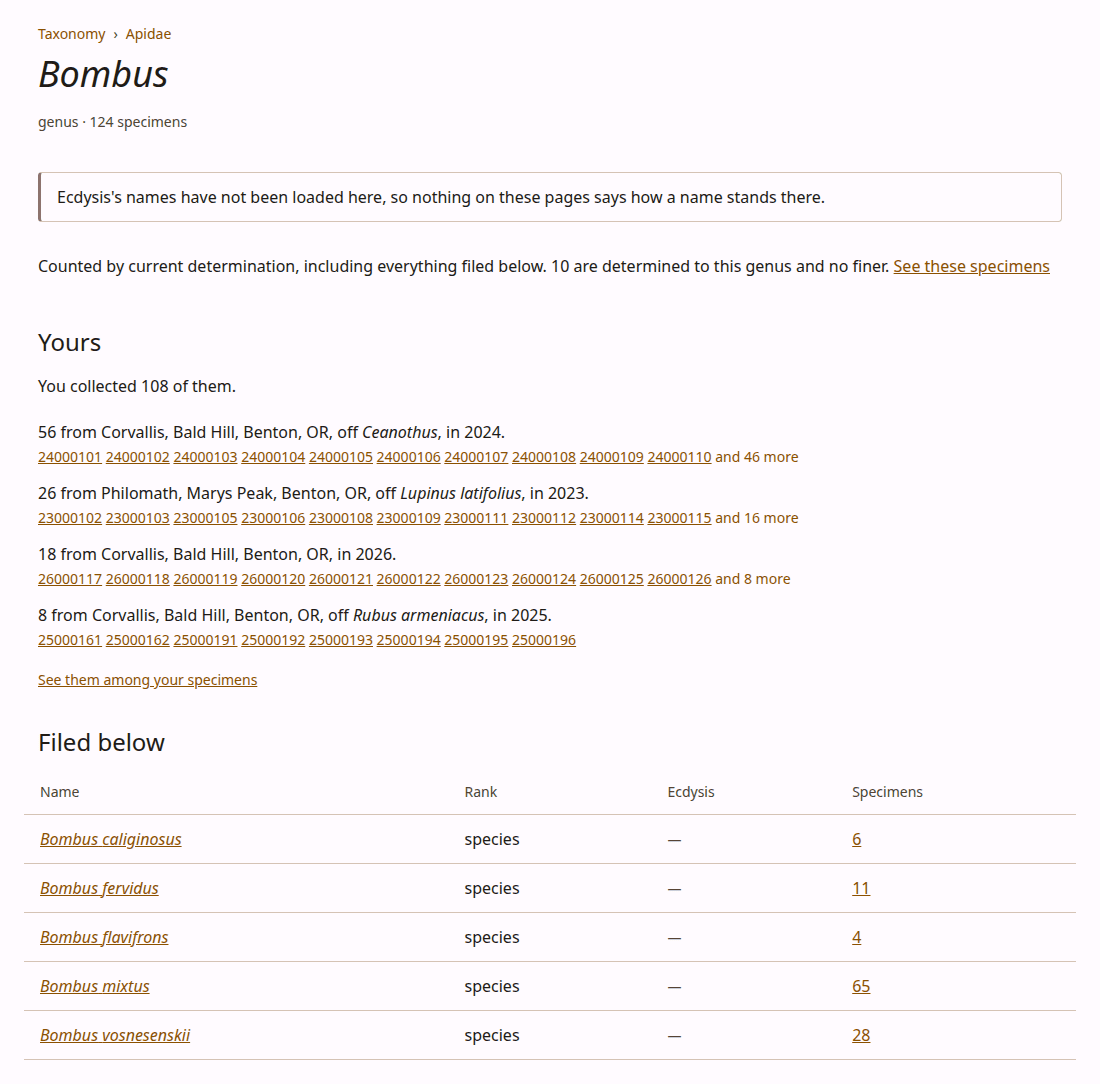
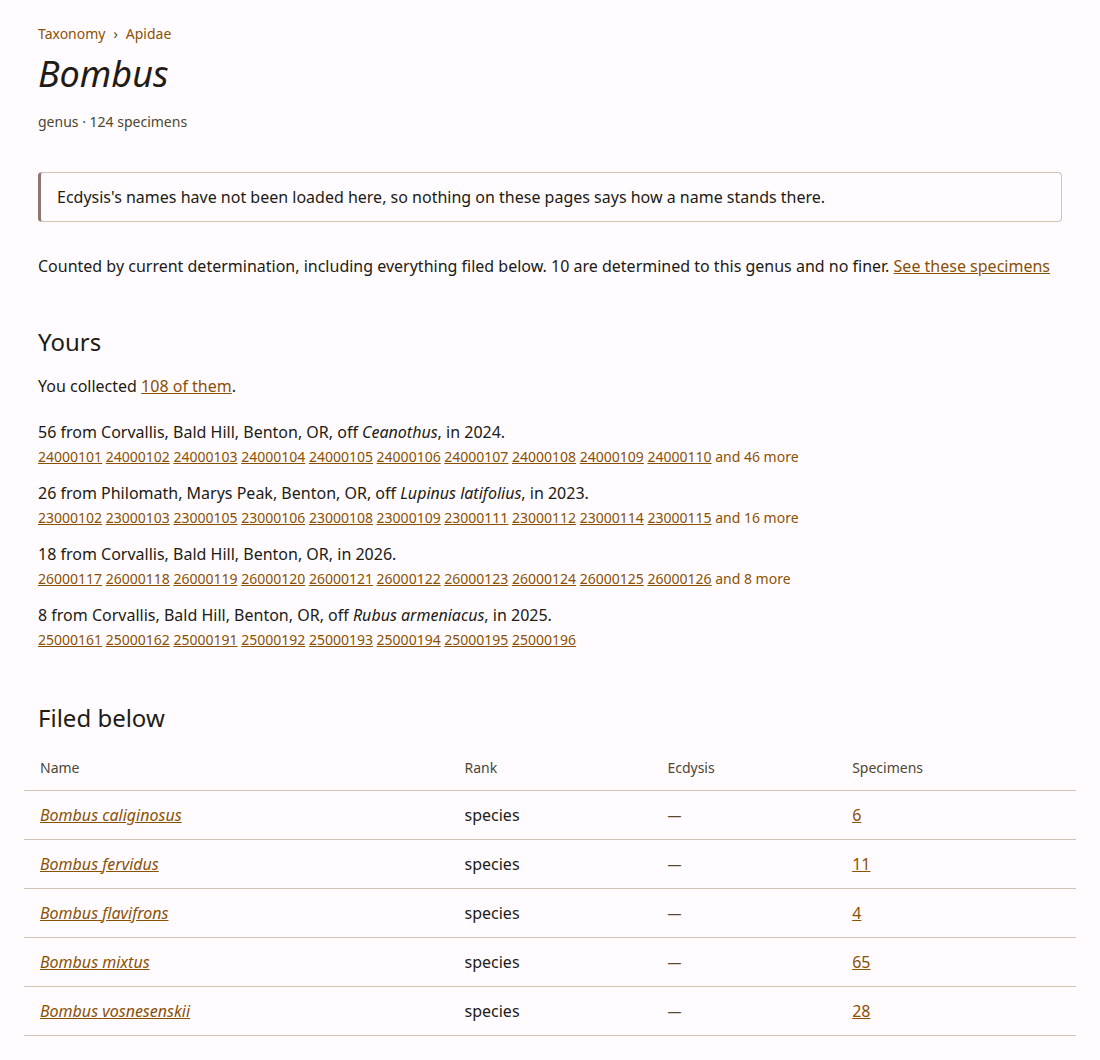
Link the count of the reader's specimens instead of a separate link
"See them among your specimens" named no page. "You collected 108 of
them" now links to the specimen listing at My records itself.

diff --git a/test/taxonomy.test.ts b/test/taxonomy.test.ts
@@ -469,7 +469,7 @@ describe("the reader's own specimens on a name's page (beeline-nstp)", () => {
     const body = await page(app, taxonHref({ rank: "genus", scientific_name: "Lasioglossum" }));
     const yours = between(body, `<h2 id="yours">`, "</section>");
     const t = en.taxonomy.yours;
-    expect(yours).toContain(t.summary(3));
+    expect(yours).toContain(`${t.collected} <a href="${html("/specimens?scope=mine&taxon=Lasioglossum")}">${t.ofThem(3)}</a>.`);
     // The most specimens first: Ada's own two at Corvallis, then the tenax off Rubus.
     const corvallis = yours.indexOf(t.from(2, "Corvallis, BentonCo, OR"));
     const baldHill = yours.indexOf(t.from(1, "Bald Hill, BentonCo, OR"));
@@ -483,7 +483,6 @@ describe("the reader's own specimens on a name's page (beeline-nstp)", () => {
     expect(yours).toContain(en.yourBees.batches.specimen("1", 2));
     expect(yours).not.toContain("Philomath");
     expect(yours).not.toContain("26000301");
-    expect(yours).toContain(`href="${html("/specimens?scope=mine&taxon=Lasioglossum")}"`);
     // The listing it links to agrees about which are Ada's.
     const listing = await page(app, "/specimens?scope=mine&taxon=Lasioglossum");
     expect(listing).toContain("26000201");
@@ -494,7 +493,7 @@ describe("the reader's own specimens on a name's page (beeline-nstp)", () => {
     await collectors();
     const body = await page(await taxonomyApp(), taxonHref({ rank: "species", scientific_name: "Lasioglossum zonulum" }));
     const yours = between(body, `<h2 id="yours">`, "</section>");
-    expect(yours).toContain(en.taxonomy.yours.summary(1));
+    expect(yours).toContain(en.taxonomy.yours.ofThem(1));
     expect(yours).toContain(en.taxonomy.yours.from(1, "Corvallis, BentonCo, OR"));
   });
 
@@ -513,7 +512,7 @@ describe("the reader's own specimens on a name's page (beeline-nstp)", () => {
     const body = await page(await taxonomyApp(), taxonHref({ rank: "genus", scientific_name: "Bombus" }));
     const yours = between(body, `<h2 id="yours">`, "</section>");
     const t = en.taxonomy.yours;
-    expect(yours).toContain(t.summary(106));
+    expect(yours).toContain(t.ofThem(106));
     const open = yours.slice(0, yours.indexOf("<details"));
     expect(open.indexOf(t.from(2, "Corvallis, BentonCo, OR"))).toBeGreaterThan(0);
     expect(open).toContain(t.from(1, "Place 008, BentonCo, OR"));

diff --git a/src/app/views/taxonomy.tsx b/src/app/views/taxonomy.tsx
@@ -415,7 +415,8 @@ function CollectedList({ m, groups }: { m: Messages; groups: readonly CollectedG
 /**
  * The reader's own specimens of the name or anything below it, by place and
  * host plant (beeline-nstp): where a volunteer arriving from What you found
- * sees what of theirs the name covers.
+ * sees what of theirs the name covers. The count links to them all on the
+ * specimen listing, at My records.
  */
 function Yours({ m, node, collected }: { m: Messages; node: TaxonNode; collected: Collected }) {
   const t = m.taxonomy.yours;
@@ -423,7 +424,9 @@ function Yours({ m, node, collected }: { m: Messages; node: TaxonNode; collected
   return (
     <section aria-labelledby="yours">
       <h2 id="yours">{t.heading}</h2>
-      <p>{t.summary(collected.total)}</p>
+      <p>
+        {t.collected} <a href={listingHref("/specimens", EMPTY_QUERY, { scope: MINE, taxon: node.scientific_name })}>{t.ofThem(collected.total)}</a>.
+      </p>
       <CollectedList m={m} groups={groups.slice(0, GROUPS_OPEN)} />
       {groups.length > GROUPS_OPEN && (
         <details class="collected-more">
@@ -432,9 +435,6 @@ function Yours({ m, node, collected }: { m: Messages; node: TaxonNode; collected
           {groups.length > GROUPS_LISTED && <Meta block>{t.notListed(groups.length - GROUPS_LISTED)}</Meta>}
         </details>
       )}
-      <Meta block>
-        <a href={listingHref("/specimens", EMPTY_QUERY, { scope: MINE, taxon: node.scientific_name })}>{t.seeThem}</a>
-      </Meta>
     </section>
   );
 }

diff --git a/src/app/messages/en.ts b/src/app/messages/en.ts
@@ -1723,15 +1723,16 @@ export const en = {
      */
     yours: {
       heading: "Yours",
-      summary: (count: number) => `You collected ${n(count)} of ${count === 1 ? "it" : "them"}.`,
+      /** "You collected 108 of them.", the count linked to the specimen listing at My records. */
+      collected: "You collected",
+      ofThem: (count: number) => `${n(count)} of ${count === 1 ? "it" : "them"}`,
       from: (count: number, where: string) => `${n(count)} from ${where}`,
       nowhere: (count: number) => `${n(count)} with no place recorded`,
       off: "off",
       inSeasons: (seasons: readonly string[]) => `in ${list(seasons)}`,
       /** The places and plants past the first few, folded away, the fewest specimens last. */
       more: (count: number) => `${n(count)} more ${count === 1 ? "place or plant" : "places and plants"}`,
-      notListed: (count: number) => `${n(count)} more, each with fewer specimens, are not listed here. They are all among your specimens.`,
-      seeThem: "See them among your specimens",
+      notListed: (count: number) => `${n(count)} more, each with fewer specimens, are not listed here.`,
     },
     below: "Filed below",
     nothingBelow: "Nothing is filed below this name.",

diff --git a/docs/architecture/determinations-and-names.md b/docs/architecture/determinations-and-names.md
@@ -2,4 +2,4 @@
 
 Part of Beeline's architecture notes; the index is [README.md](README.md).
 
-Rank is reference data, not free text: `animal_rank` (`schema/020`) holds the ranks the store admits with an `ordinal` gapped by 10, because "species or finer" is the comparison the domain needs and a bare TEXT column cannot answer it — every caller was growing its own copy of the ladder instead (beeline-a2p, beeline-4zi). The numbers live in the table and callers join, which is the half of Symbiota's rank design worth copying without the ~150 bare `rankid > 220` literals that came with it. `TaxonName`'s `ITALIC_RANKS` stays a separate, deliberately wider list — it must do something sensible with a rank the store has never heard of — and a test pins the two to agree wherever they overlap. `determination_misplaced_qualifier` (`schema/115`) is the CHECK the engine cannot hold, since "species or finer" is a fact about `animal_rank` rather than about the determination row: a test asserts it empty, the same shape as `sample_elevation_stale` and for the same reason. A determination says which node and, since beeline-tgu, how sure: `determination.qualifier` holds the three open-nomenclature qualifiers that modify a species assertion (`cf.`, `aff.`, `nr.`) and cannot be expressed by dropping to genus, which would throw away the resemblance the determiner observed; `sp.`/`spp.` are deliberately absent, being what a genus-rank determination already means. `verbatim_identification` keeps the name as the source wrote it beside the node it resolved to, and a CHECK requires it, never blank, on every channel but `legacy_import`: not every name will resolve to a name in the reference the tree is matched against, so the words are the one record of what was said (beeline-45v), while legacy import is exempt because 225,669 of its 256,161 determinations arrive as parted columns with no whole name to keep, and promotion invents none — except where a curated decision sends a determination to a node other than the one its own columns spell (a spelling alias, and next an adopted Ecdysis name), when the spelling the source used is kept here, since nothing else would say what was written (beeline-bph). Only `nr.` is attested in the legacy corpus (3 records, `Lasioglossum nr. tenax`, which used to land on the bare genus because `specificEpithet` is empty on those rows and nothing read the string); the glossary and `/design/names` teach all three. The curated taxonomy is based on the taxonomic thesaurus of Ecdysis, the Symbiota portal the program's taxonomists determine in (beeline-7gob: decided by Peter on 2026-10-23, in a meeting Andony and the program's taxonomists attended); it was ITIS until then (beeline-45v), and ITIS lacked every bee subgenus outside Colletidae, the potter wasps that arrive as bycatch, and names from recent papers that Ecdysis holds because it is where they are used. `animal.ecdysis_tid` is the Ecdysis id of the one name a node matches at its rank and spelling, an accepted name preferred over a synonym — derived by `ingest/match-ecdysis.sql` from `ecdysis_taxon` (`schema/025`), restated whenever the thesaurus is loaded and after legacy promotion, and checked by `animal_ecdysis_stale`. `pnpm ecdysis:taxonomy [db]` fetches it and loads it (`src/fetch-ecdysis-taxonomy.ts`, `src/load-ecdysis-taxonomy.ts`): Symbiota's taxonomy display page exports a branch of the thesaurus as CSV, with no sign-in, and a branch too large for the server to export (Insecta, Coleoptera) answers 500 and is split into its children until each piece answers — 55 exports, 1,028,351 names and about three minutes on 2026-10-23, written as one 72 MB CSV under `data/ecdysis-taxonomy/` — and the load keeps the ranks `animal_rank` admits, Symbiota's rank ids being its ordinals, gives each accepted name its nearest ancestor at one of them (`admitted_parent_tid`, walking past tribes, subfamilies and subgenera, since the tree files a species under its genus, and from a synonym to its accepted name, since 12,915 accepted insect names sit under a synonym and adopting along one would mint a name Ecdysis rejects; a genus Ecdysis spells like a subgenus, `Lasioglossum (Eickwortia)`, ends the walk, so what is filed below it waits for a person), and replaces the table wholesale in one transaction, in about three seconds; `--cached` loads the last fetch without asking Ecdysis again, and `db:reseed` carries the table, since promotion cannot recompute it. Ecdysis has no releases — it is edited name by name — so the day of the fetch is the version. Symbiota gives a synonym exactly one accepted name, so there is no synonym table: `accepted_tid` is a column. Its text is kept as Ecdysis stores it, double-encoded authors in Lepidoptera and Diptera included (no bee name has one), and an export's backslash before a quote is PHP's escape, which a standard CSV reader misreads. All insects rather than only what already matches, because bycatch arrives from any order and adoption and curation look up names the store does not hold yet. `animal_ecdysis` (`schema/118`) says what a node's id, or its absence, means: on the sandbox store of 2026-10-23, 3,492 nodes are accepted, 16 synonyms (kept on their own id, with the name Ecdysis files them under beside it — `Lasioglossum pavonotum` under *pavonotus*, `Peponapis pruinosa` under *Xenoglossa pruinosa*), none homonyms, and 106 absent — mostly checklist names nothing is determined to, plus `Lasioglossum aspilurum`, `Sphecodes (Arctosphecodes)` and `Perdita nuttalliae`, which carry about a hundred determinations between them. `not loaded` is its own answer, so a store without the thesaurus never reads as a taxonomy Ecdysis has never heard of; what the program does about a synonym or an absent name is `animal_curation` (`schema/022`, beeline-45v.1), replayed from `ingest/taxon-curation.csv` by `src/taxon-curation.ts` after the seed and before the match. Ecdysis is the default, so the file holds only the claims — an **addition** (a name Ecdysis lacks, kept), a **departure** (a name Ecdysis calls a synonym, kept under the program's treatment, with what Ecdysis said recorded beside it) and a **homonym** resolution (which of two accepted Ecdysis names at one spelling is meant, by id, which the match then honours) — and every row names the taxonomist who decided and why, with a DOI or link where a paper is behind it, since the loader transcribes a decision and never makes one (Peter, 2026-10-02). It holds no decisions: the workbook sent to Lincoln Best on 2026-10-02, which asked about ITIS's gaps, will not come back (Peter, 2026-10-23), and most of what it asked Ecdysis already answers. A row whose node is not in the tree creates it under the parent its name implies, or under `parent_rank`/`parent_name` for a genus or family; one whose parent is missing is reported, never guessed. `animal_curation_stale` is the check of each later fetch against the decisions — an addition Ecdysis now carries, a departure Ecdysis has adopted (retire it) or filed under yet another name, a homonym choice no longer on offer — empty while the thesaurus is not loaded. When decisions do come, **reading them is a person's or a model's job, never a script's** (Peter, 2026-10-03): an answer comes back as prose, a crossed-out proposal, a row added at the bottom, or an email saying "mostly fine, except…", and the first reader of the workbook — which matched dropdown strings and prefix-matched "Keep…" — would have mapped those with a confidence no reviewer of a forty-row diff catches. So `pnpm taxon:fetch-sheet <sheet-id>` only writes a sheet's tabs to a dated snapshot under `data/taxon-decisions/`, the record of what was said; whoever reads it records each decision with `pnpm taxon:decide <kind> <rank> "<name>" --by "L. Best" --reason "<his words, and where from>" [--reference] [--tid]`, or `--batch file.csv` for forty rows under one signature ("every proposal, as confirmed by email"), and that tool fills in what the reader must not type — Ecdysis's id, the name it files the name under instead, the fetch — refuses a decision the thesaurus contradicts (an addition of a name Ecdysis has, a departure from a name Ecdysis still accepts, a homonym choice not among the candidates), and merges the row into the file. The reason is the taxonomist's words verbatim; a paraphrase is the reader's. `pnpm taxon:apply [db]` replays the file onto an existing store; promotion does the same on every rebuild. On `/taxonomy` a decided name wears a chip in the decision's words ("Kept beyond Ecdysis", "Kept against Ecdysis", "Chosen") in place of the warning, with Ecdysis's view kept beneath; its own page says who decided, when, against which fetch and why, links the reference, and warns when the thesaurus now loaded has moved from under it; the index counts decisions and lists them through a `decided` filter, whose `moved` value is the curation worklist. Names are derived, never typed: `TaxonName` derives italics, subgenus brackets, and qualifier placement from rank, and `labelName()` (`src/person-name.ts`) derives a label's "P. Abrahamsen" from `person.given_name`/`family_name` — family names print whole, `label_name` overrides (`/design/names`). The tree itself is `/taxonomy` (`src/app/taxonomy.ts` + `src/app/views/taxonomy.tsx`, beeline-45v.5), readable by everyone like the glossary and the place curation will land: a name is addressed by rank and name — the table's own unique key, which a rebuild does not redraw, where the name alone is not a key — and its page shows where it is filed, how it stands in `animal_ecdysis` (the accepted name for a synonym, both Ecdysis authors for a homonym, and a link to the name's page on Ecdysis), and what is filed below it, counted by determination of record — and each count links to the specimen listing at `scope=all`, naming it because a link that names no scope lands on whatever scope its reader last browsed, so a count of everyone's could open on their own. A name's page also lists the reader's own specimens of it and of everything filed below it (beeline-nstp), the one part of the tree that is anybody's records: grouped by place and host plant, the groups with the most specimens first, ten shown and up to a hundred in all, each specimen linked, then a link to the specimen listing at `scope=mine`. It reads only samples the reader collected, a second collector's included, so it shows nothing iNaturalist withholds from others. On production's store of 2026-11-12 a volunteer's specimens of one genus fall in three groups at the median and 31 at the 90th percentile, but the busiest collector's of Apidae fall in 1,028, which is why the list stops at a hundred; the query takes about 60 ms for that family and 20–30 ms for a genus or species. A name search or a standing filter turns the index into a flat list, which is the worklist curation grows into; browsing starts where the tree first branches, since Animalia, Arthropoda and Insecta each hold one thing. `/taxonomy.csv` is the whole tree as one file, for a spreadsheet (beeline-7dve): a row per name in the order the pages browse it, Darwin Core's Taxon terms where one fits (`parentNameUsage`, `acceptedNameUsage` for a synonym) with the ancestors at kingdom to genus spelled out on each row, and Beeline's own columns after them — the Ecdysis id and standing, the specimens counted as the pages count them, and any decision. A row speaks about Ecdysis only when the name is not simply accepted there.
+Rank is reference data, not free text: `animal_rank` (`schema/020`) holds the ranks the store admits with an `ordinal` gapped by 10, because "species or finer" is the comparison the domain needs and a bare TEXT column cannot answer it — every caller was growing its own copy of the ladder instead (beeline-a2p, beeline-4zi). The numbers live in the table and callers join, which is the half of Symbiota's rank design worth copying without the ~150 bare `rankid > 220` literals that came with it. `TaxonName`'s `ITALIC_RANKS` stays a separate, deliberately wider list — it must do something sensible with a rank the store has never heard of — and a test pins the two to agree wherever they overlap. `determination_misplaced_qualifier` (`schema/115`) is the CHECK the engine cannot hold, since "species or finer" is a fact about `animal_rank` rather than about the determination row: a test asserts it empty, the same shape as `sample_elevation_stale` and for the same reason. A determination says which node and, since beeline-tgu, how sure: `determination.qualifier` holds the three open-nomenclature qualifiers that modify a species assertion (`cf.`, `aff.`, `nr.`) and cannot be expressed by dropping to genus, which would throw away the resemblance the determiner observed; `sp.`/`spp.` are deliberately absent, being what a genus-rank determination already means. `verbatim_identification` keeps the name as the source wrote it beside the node it resolved to, and a CHECK requires it, never blank, on every channel but `legacy_import`: not every name will resolve to a name in the reference the tree is matched against, so the words are the one record of what was said (beeline-45v), while legacy import is exempt because 225,669 of its 256,161 determinations arrive as parted columns with no whole name to keep, and promotion invents none — except where a curated decision sends a determination to a node other than the one its own columns spell (a spelling alias, and next an adopted Ecdysis name), when the spelling the source used is kept here, since nothing else would say what was written (beeline-bph). Only `nr.` is attested in the legacy corpus (3 records, `Lasioglossum nr. tenax`, which used to land on the bare genus because `specificEpithet` is empty on those rows and nothing read the string); the glossary and `/design/names` teach all three. The curated taxonomy is based on the taxonomic thesaurus of Ecdysis, the Symbiota portal the program's taxonomists determine in (beeline-7gob: decided by Peter on 2026-10-23, in a meeting Andony and the program's taxonomists attended); it was ITIS until then (beeline-45v), and ITIS lacked every bee subgenus outside Colletidae, the potter wasps that arrive as bycatch, and names from recent papers that Ecdysis holds because it is where they are used. `animal.ecdysis_tid` is the Ecdysis id of the one name a node matches at its rank and spelling, an accepted name preferred over a synonym — derived by `ingest/match-ecdysis.sql` from `ecdysis_taxon` (`schema/025`), restated whenever the thesaurus is loaded and after legacy promotion, and checked by `animal_ecdysis_stale`. `pnpm ecdysis:taxonomy [db]` fetches it and loads it (`src/fetch-ecdysis-taxonomy.ts`, `src/load-ecdysis-taxonomy.ts`): Symbiota's taxonomy display page exports a branch of the thesaurus as CSV, with no sign-in, and a branch too large for the server to export (Insecta, Coleoptera) answers 500 and is split into its children until each piece answers — 55 exports, 1,028,351 names and about three minutes on 2026-10-23, written as one 72 MB CSV under `data/ecdysis-taxonomy/` — and the load keeps the ranks `animal_rank` admits, Symbiota's rank ids being its ordinals, gives each accepted name its nearest ancestor at one of them (`admitted_parent_tid`, walking past tribes, subfamilies and subgenera, since the tree files a species under its genus, and from a synonym to its accepted name, since 12,915 accepted insect names sit under a synonym and adopting along one would mint a name Ecdysis rejects; a genus Ecdysis spells like a subgenus, `Lasioglossum (Eickwortia)`, ends the walk, so what is filed below it waits for a person), and replaces the table wholesale in one transaction, in about three seconds; `--cached` loads the last fetch without asking Ecdysis again, and `db:reseed` carries the table, since promotion cannot recompute it. Ecdysis has no releases — it is edited name by name — so the day of the fetch is the version. Symbiota gives a synonym exactly one accepted name, so there is no synonym table: `accepted_tid` is a column. Its text is kept as Ecdysis stores it, double-encoded authors in Lepidoptera and Diptera included (no bee name has one), and an export's backslash before a quote is PHP's escape, which a standard CSV reader misreads. All insects rather than only what already matches, because bycatch arrives from any order and adoption and curation look up names the store does not hold yet. `animal_ecdysis` (`schema/118`) says what a node's id, or its absence, means: on the sandbox store of 2026-10-23, 3,492 nodes are accepted, 16 synonyms (kept on their own id, with the name Ecdysis files them under beside it — `Lasioglossum pavonotum` under *pavonotus*, `Peponapis pruinosa` under *Xenoglossa pruinosa*), none homonyms, and 106 absent — mostly checklist names nothing is determined to, plus `Lasioglossum aspilurum`, `Sphecodes (Arctosphecodes)` and `Perdita nuttalliae`, which carry about a hundred determinations between them. `not loaded` is its own answer, so a store without the thesaurus never reads as a taxonomy Ecdysis has never heard of; what the program does about a synonym or an absent name is `animal_curation` (`schema/022`, beeline-45v.1), replayed from `ingest/taxon-curation.csv` by `src/taxon-curation.ts` after the seed and before the match. Ecdysis is the default, so the file holds only the claims — an **addition** (a name Ecdysis lacks, kept), a **departure** (a name Ecdysis calls a synonym, kept under the program's treatment, with what Ecdysis said recorded beside it) and a **homonym** resolution (which of two accepted Ecdysis names at one spelling is meant, by id, which the match then honours) — and every row names the taxonomist who decided and why, with a DOI or link where a paper is behind it, since the loader transcribes a decision and never makes one (Peter, 2026-10-02). It holds no decisions: the workbook sent to Lincoln Best on 2026-10-02, which asked about ITIS's gaps, will not come back (Peter, 2026-10-23), and most of what it asked Ecdysis already answers. A row whose node is not in the tree creates it under the parent its name implies, or under `parent_rank`/`parent_name` for a genus or family; one whose parent is missing is reported, never guessed. `animal_curation_stale` is the check of each later fetch against the decisions — an addition Ecdysis now carries, a departure Ecdysis has adopted (retire it) or filed under yet another name, a homonym choice no longer on offer — empty while the thesaurus is not loaded. When decisions do come, **reading them is a person's or a model's job, never a script's** (Peter, 2026-10-03): an answer comes back as prose, a crossed-out proposal, a row added at the bottom, or an email saying "mostly fine, except…", and the first reader of the workbook — which matched dropdown strings and prefix-matched "Keep…" — would have mapped those with a confidence no reviewer of a forty-row diff catches. So `pnpm taxon:fetch-sheet <sheet-id>` only writes a sheet's tabs to a dated snapshot under `data/taxon-decisions/`, the record of what was said; whoever reads it records each decision with `pnpm taxon:decide <kind> <rank> "<name>" --by "L. Best" --reason "<his words, and where from>" [--reference] [--tid]`, or `--batch file.csv` for forty rows under one signature ("every proposal, as confirmed by email"), and that tool fills in what the reader must not type — Ecdysis's id, the name it files the name under instead, the fetch — refuses a decision the thesaurus contradicts (an addition of a name Ecdysis has, a departure from a name Ecdysis still accepts, a homonym choice not among the candidates), and merges the row into the file. The reason is the taxonomist's words verbatim; a paraphrase is the reader's. `pnpm taxon:apply [db]` replays the file onto an existing store; promotion does the same on every rebuild. On `/taxonomy` a decided name wears a chip in the decision's words ("Kept beyond Ecdysis", "Kept against Ecdysis", "Chosen") in place of the warning, with Ecdysis's view kept beneath; its own page says who decided, when, against which fetch and why, links the reference, and warns when the thesaurus now loaded has moved from under it; the index counts decisions and lists them through a `decided` filter, whose `moved` value is the curation worklist. Names are derived, never typed: `TaxonName` derives italics, subgenus brackets, and qualifier placement from rank, and `labelName()` (`src/person-name.ts`) derives a label's "P. Abrahamsen" from `person.given_name`/`family_name` — family names print whole, `label_name` overrides (`/design/names`). The tree itself is `/taxonomy` (`src/app/taxonomy.ts` + `src/app/views/taxonomy.tsx`, beeline-45v.5), readable by everyone like the glossary and the place curation will land: a name is addressed by rank and name — the table's own unique key, which a rebuild does not redraw, where the name alone is not a key — and its page shows where it is filed, how it stands in `animal_ecdysis` (the accepted name for a synonym, both Ecdysis authors for a homonym, and a link to the name's page on Ecdysis), and what is filed below it, counted by determination of record — and each count links to the specimen listing at `scope=all`, naming it because a link that names no scope lands on whatever scope its reader last browsed, so a count of everyone's could open on their own. A name's page also lists the reader's own specimens of it and of everything filed below it (beeline-nstp), the one part of the tree that is anybody's records: grouped by place and host plant, the groups with the most specimens first, ten shown and up to a hundred in all, each specimen linked; the count above them links to the specimen listing at `scope=mine`, where the rest are. It reads only samples the reader collected, a second collector's included, so it shows nothing iNaturalist withholds from others. On production's store of 2026-11-12 a volunteer's specimens of one genus fall in three groups at the median and 31 at the 90th percentile, but the busiest collector's of Apidae fall in 1,028, which is why the list stops at a hundred; the query takes about 60 ms for that family and 20–30 ms for a genus or species. A name search or a standing filter turns the index into a flat list, which is the worklist curation grows into; browsing starts where the tree first branches, since Animalia, Arthropoda and Insecta each hold one thing. `/taxonomy.csv` is the whole tree as one file, for a spreadsheet (beeline-7dve): a row per name in the order the pages browse it, Darwin Core's Taxon terms where one fits (`parentNameUsage`, `acceptedNameUsage` for a synonym) with the ancestors at kingdom to genus spelled out on each row, and Beeline's own columns after them — the Ecdysis id and standing, the specimens counted as the pages count them, and any decision. A row speaks about Ecdysis only when the name is not simply accepted there.
